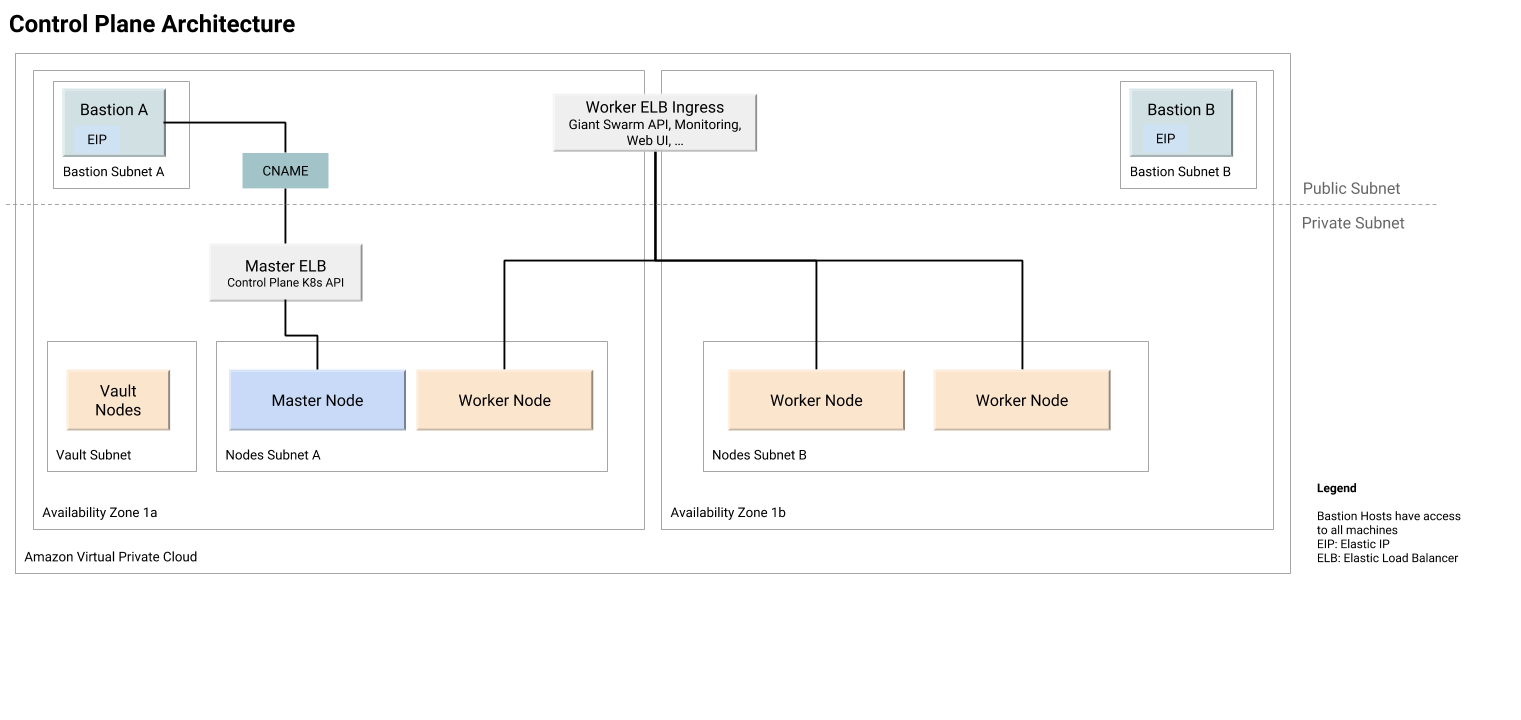
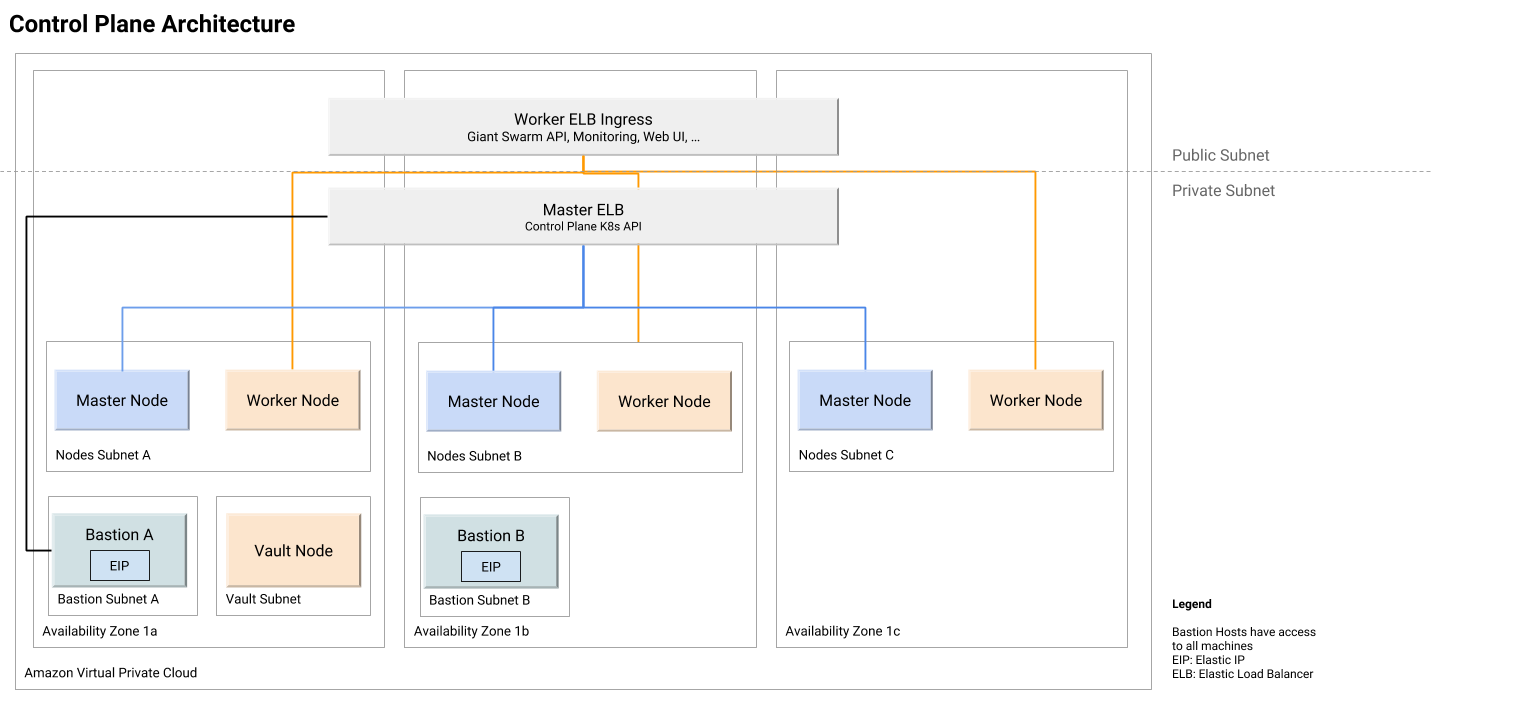
update docs

diff --git a/src/content/basics/aws-architecture/index.md b/src/content/basics/aws-architecture/index.md
@@ -15,7 +15,7 @@ Giant Swarm's Architecture is split into two logical parts, one being the Contro
 
 ![Control Plane Architecture](/img/architecture-aws-control-plane.png)
 
-The above diagram shows our PoC setup and runs over two availability zones. We setup two Bastion hosts, one in each Availability Zone. All EC2 machines are in a private subnet and only accessible through the Bastion hosts.
+The above diagram shows our PoC setup and runs over three availability zones. We setup two Bastion hosts, one in each Availability Zone. All EC2 machines are in a private subnet and only accessible through the Bastion hosts. Bastions hosts are avaiable via AWS VPN Connection only.
 
 The cluster has several APIs and Interfaces. The Kubernetes API of the Control Plane is only available to Giant Swarm operations personel and only through the Bastion hosts. 
 
